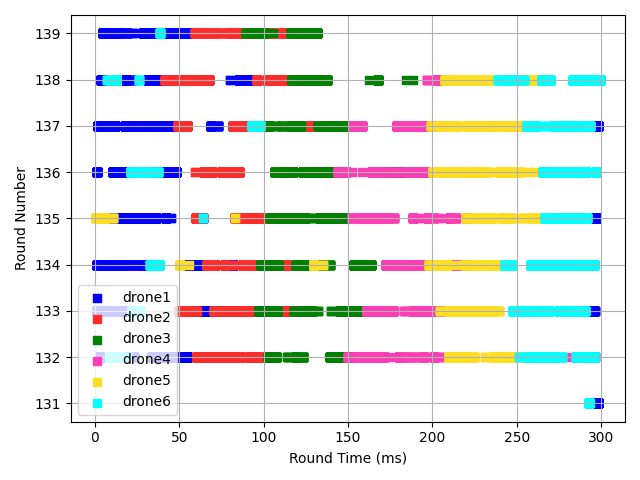
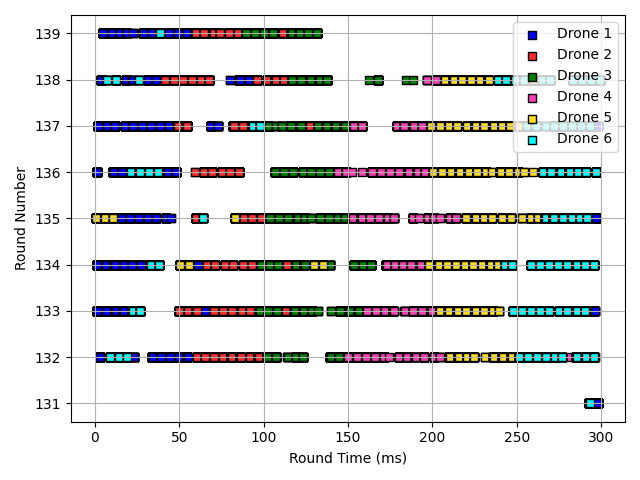
Improved trace plot appearence

diff --git a/docs/logs/processTrace.py b/docs/logs/processTrace.py
@@ -20,6 +20,16 @@ node_colors = ['#0000ff',
 tdma_round_len_ms = 300
 offset = -290
 
+def format_key(key):
+
+    #drone1 -> Drone 1
+
+    split_key = re.findall(r'[A-Za-z]+|\d+', key)
+
+    new_key = split_key[0].capitalize() + ' ' + split_key[1]
+
+    return new_key
+
 def plot_packet(packet, relative_timestamp_ms):
     
     x = (relative_timestamp_ms + offset) % 300
@@ -106,7 +116,7 @@ def process_pcap(file_path):
         x_points = [x for x, y in points]
         y_points = [y for x, y in points]
         
-        plt.scatter(x_points, y_points, label=key, marker='s', color=node_colors[index])
+        plt.scatter(x_points, y_points, label=format_key(key), marker='s', color=node_colors[index], s=30, edgecolors='black')
 
         index+=1
 
@@ -119,7 +129,7 @@ if __name__ == '__main__':
 
     process_pcap('./tdma-tests/six-node-throughput-udp/50ms-six-node-udp.pcapng.gz')
 
-    plt.legend()
+    plt.legend(loc='upper right')
     plt.grid()
     plt.xlabel("Round Time (ms)")
     plt.ylabel("Round Number") 
